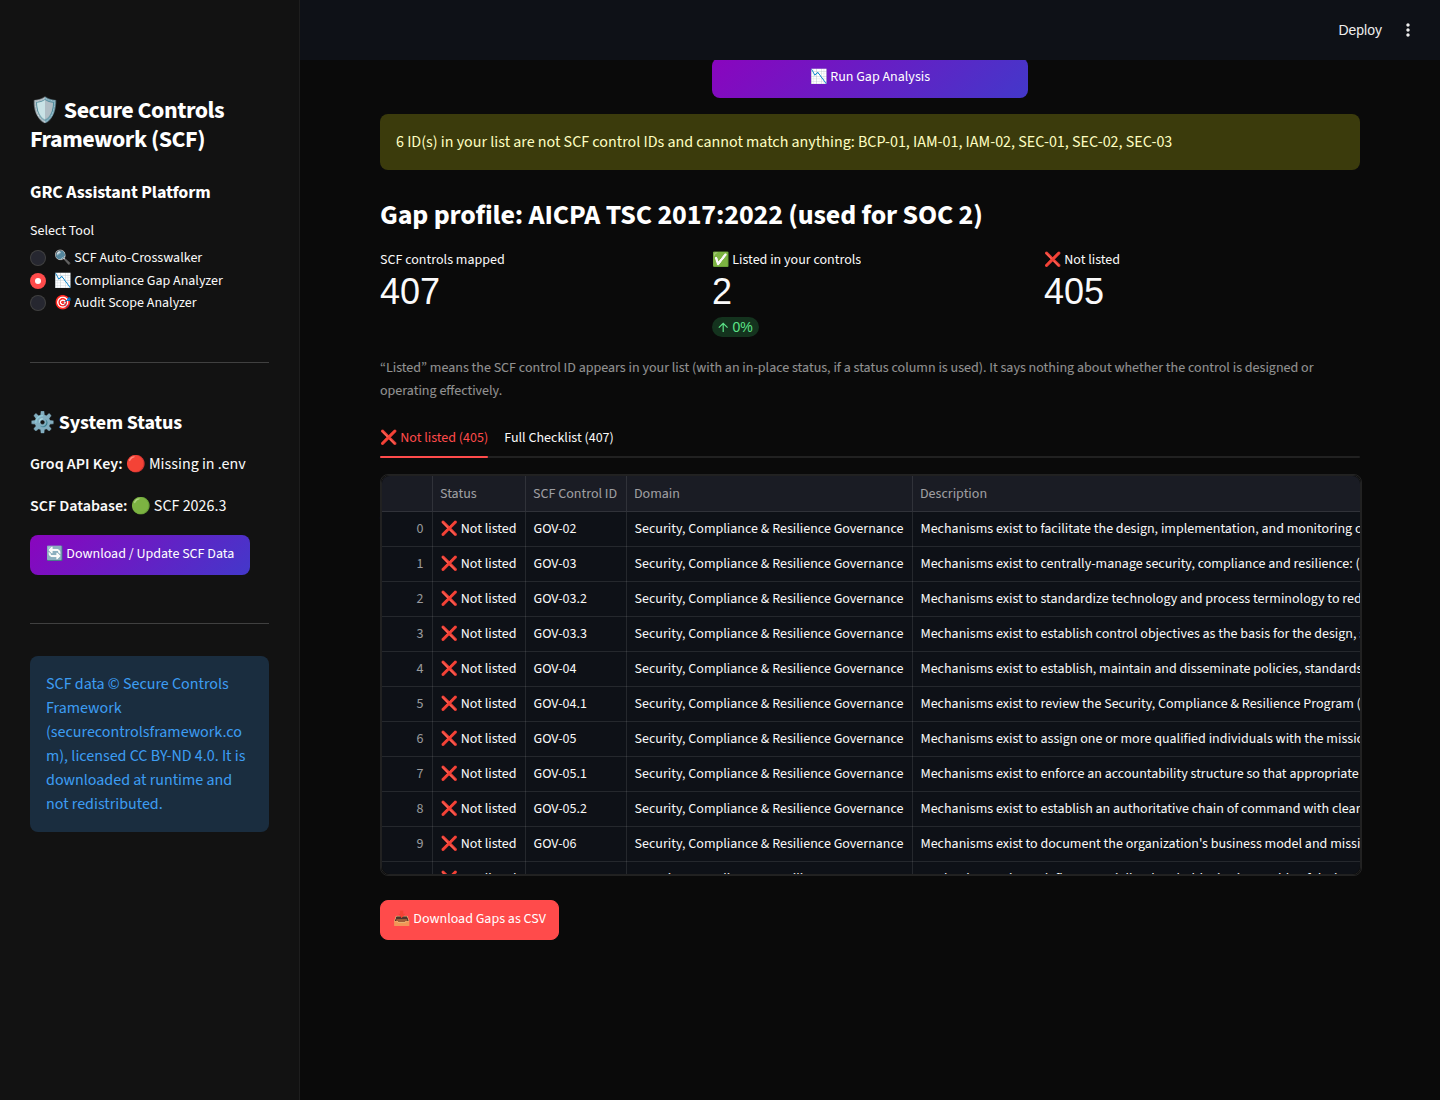
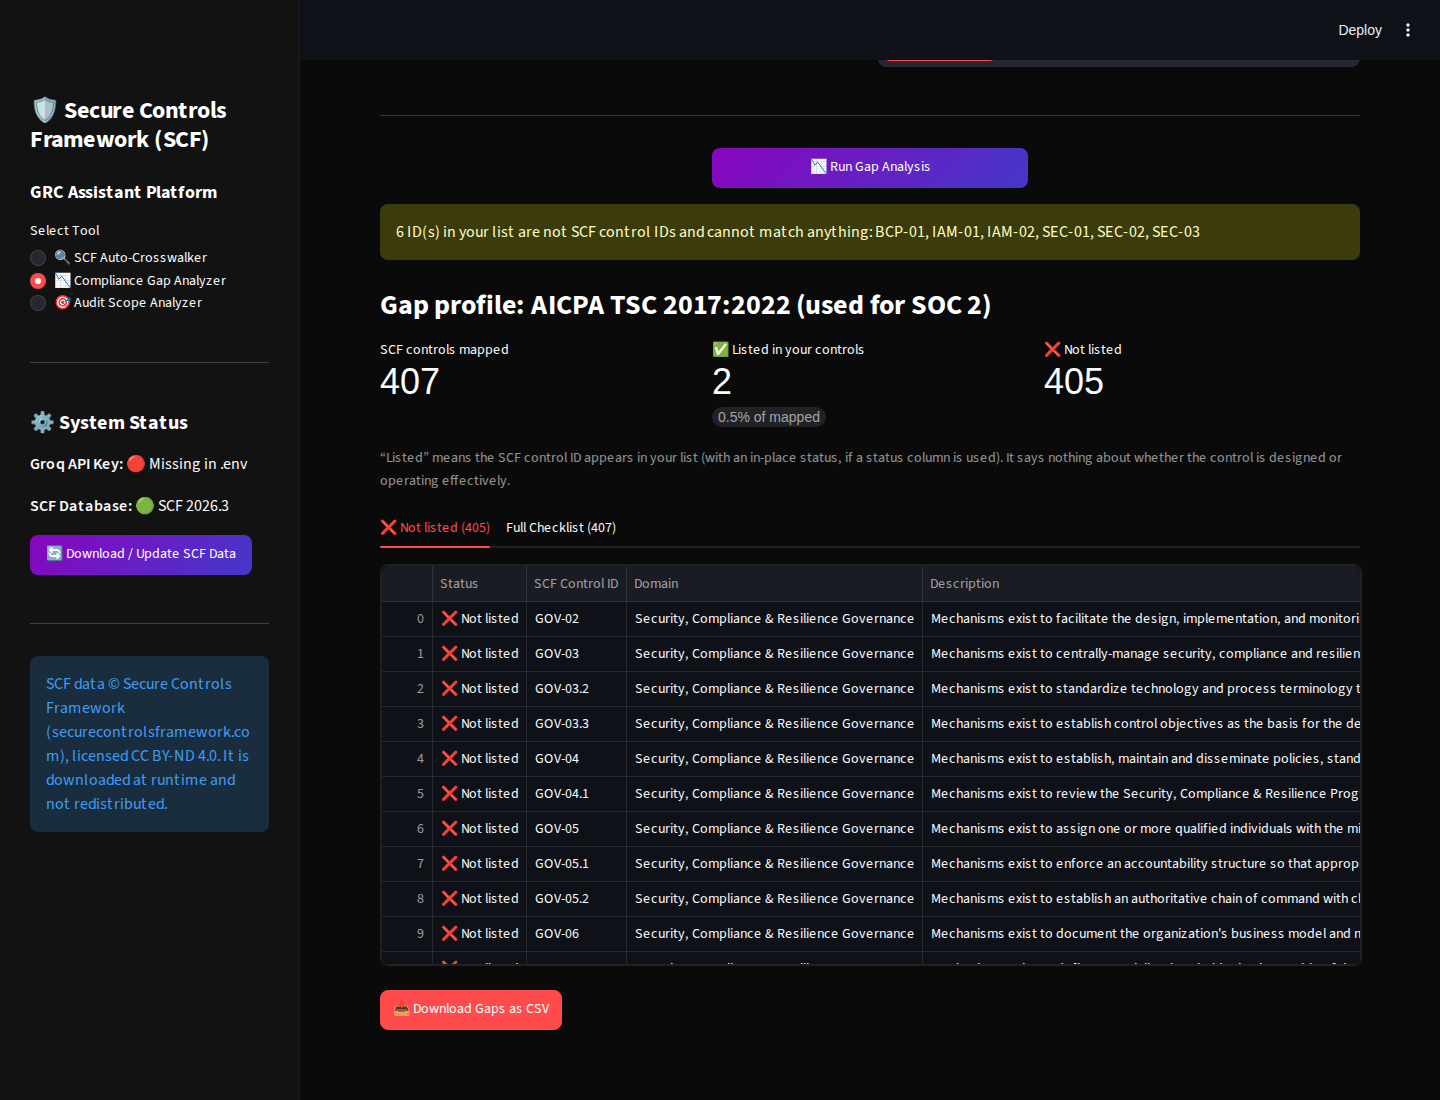
Show real-data Gap Analyzer run and fix the coverage metric
The 'Listed' metric showed a green up-arrow '0%' for 2 of 407 controls;
it is a share, not a change, so it now reads '0.5% of mapped' with no
arrow. The capture script gains MODE=real for a screenshot against SCF
2026.3, and the README, case study and ADRs quote the real control
count (1,591) and the retrieval results.

Claude-Session: https://claude.ai/code/session_017Tj9TcAN5Yup4o7k3YzYx1

diff --git a/app.py b/app.py
@@ -658,7 +658,10 @@ elif app_mode == "📉 Compliance Gap Analyzer":
                 col_m2.metric(
                     "✅ Listed in your controls",
                     report.covered,
-                    delta=f"{round(report.covered / len(report.rows) * 100)}%",
+                    # A share, not a change: no arrow, one decimal (2 of 407 is 0.5%, not 0%).
+                    delta=f"{report.covered / len(report.rows) * 100:.1f}% of mapped",
+                    delta_color="off",
+                    delta_arrow="off",
                 )
                 col_m3.metric("❌ Not listed", report.gaps)
                 st.caption(

diff --git a/README.md b/README.md
@@ -4,7 +4,7 @@
 [![License: MIT](https://img.shields.io/badge/license-MIT-blue.svg)](LICENSE)
 [![Python 3.11 | 3.12 | 3.13](https://img.shields.io/badge/python-3.11%20%7C%203.12%20%7C%203.13-blue.svg)](pyproject.toml)
 
-Before an auditor can test anything, they have to answer a mapping question: which control does this policy, finding or scope actually concern? With the Secure Controls Framework (SCF) that means searching more than 1,400 controls in a spreadsheet, for every new input. SCF Auto-Crosswalker is a personal project that shortens that first pass. It narrows the SCF down with embedding search, asks a language model to pick from the shortlist, and then checks every answer against that shortlist, so only real SCF controls, with SCF's own text, reach the screen. Results export to CSV and to OSCAL, and an evaluation harness scores the pipeline against AWS's and SCF's published NIST SP 800-53 mappings. The result is a set of suggestions for a person to accept or reject, not a mapping of record.
+Before an auditor can test anything, they have to answer a mapping question: which control does this policy, finding or scope actually concern? With the Secure Controls Framework (SCF) that means searching 1,591 controls (release 2026.3) in a spreadsheet, for every new input. SCF Auto-Crosswalker is a personal project that shortens that first pass. It narrows the SCF down with embedding search, asks a language model to pick from the shortlist, and then checks every answer against that shortlist, so only real SCF controls, with SCF's own text, reach the screen. Results export to CSV and to OSCAL. Measured against AWS's and SCF's published NIST SP 800-53 mappings on 221 Security Hub controls, the retrieval step puts a linked SCF control among the model's 50 candidates for 62% of them, against 46% for keyword matching and 23% by chance ([Evaluation](#evaluation)); the model step itself has not been scored yet. The result is a set of suggestions for a person to accept or reject, not a mapping of record.
 
 > [!IMPORTANT]
 > **Disclaimer:** This is an independent, personal project developed on personal time. It is not affiliated with, sponsored by or endorsed by any current or past employer, or by the Secure Controls Framework.
@@ -78,6 +78,12 @@ Audit Scope Analyzer on the lab scope: suggested domains and controls to test, t
 </td>
 </tr>
 </table>
+
+**And on real data.** The Gap Analyzer needs no language model, so it can run against the real SCF release without a Groq key. This is SCF 2026.3 (1,591 controls, from the official SCF repository) against the SOC 2 column, for `lab_data/sample_existing_controls.csv`:
+
+![Gap Analyzer on the real SCF 2026.3 release: 407 controls mapped to SOC 2, 2 listed, 405 not listed, and six IDs that are not SCF IDs](docs/screenshots/gap-analyzer-real-scf-2026-3.png)
+
+407 SCF controls map to SOC 2; 2 are listed in the sample, and 6 of its IDs are flagged as not SCF IDs. Captured with `MODE=real node scripts/capture_screenshots.mjs`. SCF content © Secure Controls Framework (securecontrolsframework.com), CC BY-ND 4.0; shown verbatim with attribution. The SCF data itself is not stored in this repository.
 
 [`lab_data/sample_outputs/`](lab_data/sample_outputs) holds raw outputs from earlier runs with the real SCF and a Groq model, and [`lab_data/README.md`](lab_data/README.md) annotates them. They record the failure modes the current validation was built for: a scope analysis that returned only NIST 800-53 IDs, and control descriptions rewritten by the model.
 

diff --git a/DECISIONS.md b/DECISIONS.md
@@ -41,7 +41,7 @@ This file records the design decisions as the code implements them today. Each r
 **Decision.** `_semantic_filter` (`src/mapper.py`) embeds the input with `all-MiniLM-L6-v2` and ranks every SCF control by cosine similarity. The Crosswalker sends the top 50 candidates to the LLM and the Scope Analyzer the top 60. The Scope Analyzer also sends the full list of SCF domains with their ID prefixes, so its domain suggestions can cover the whole framework. The retrieval step replaced keyword matching in commit `5ed1f81`.
 
 **Consequences.**
-- The prompt stays small enough for Groq's free-tier limits instead of carrying roughly 1,400 controls.
+- The prompt stays small enough for Groq's free-tier limits instead of carrying all 1,591 controls (SCF 2026.3).
 - The model can only pick a control that retrieval found: validation (ADR-004) accepts only candidate IDs. A retrieval miss is an answer miss, which is why the evaluation (ADR-009) measures retrieval on its own.
 - The embedding model truncates at 256 word pieces. The input is therefore embedded in 150-word chunks, and each control keeps its best chunk score (`_chunk_words`). Security Hub findings are first reduced to their descriptive fields (`src/findings.py`), because roughly the first 700 characters of a raw finding are ARNs, IDs and timestamps.
 - Control embeddings are cached in `data/scf_embeddings.npz` together with a SHA-256 fingerprint of the embedding model name and every control text. A cache whose fingerprint or row count does not match the current database is rebuilt, so row *i* always belongs to control *i*.

diff --git a/CASE_STUDY.md b/CASE_STUDY.md
@@ -8,7 +8,7 @@
 
 ## The problem
 
-Before an auditor can test a control, they have to decide which control a piece of evidence concerns. A new policy, an AWS Security Hub finding or an audit scope has to be placed against a control framework. With the SCF that means searching more than 1,400 controls in a spreadsheet for each input. The work is slow, it is repeated for every new document, and two people often place the same finding differently.
+Before an auditor can test a control, they have to decide which control a piece of evidence concerns. A new policy, an AWS Security Hub finding or an audit scope has to be placed against a control framework. With the SCF that means searching 1,591 controls (release 2026.3) in a spreadsheet for each input. The work is slow, it is repeated for every new document, and two people often place the same finding differently.
 
 Language models can shorten that first pass, but they introduce a new risk for audit work: an answer that looks right but refers to a control that does not exist, or that paraphrases a control's text into something the framework never said. In an audit file, both are errors of fact.
 
